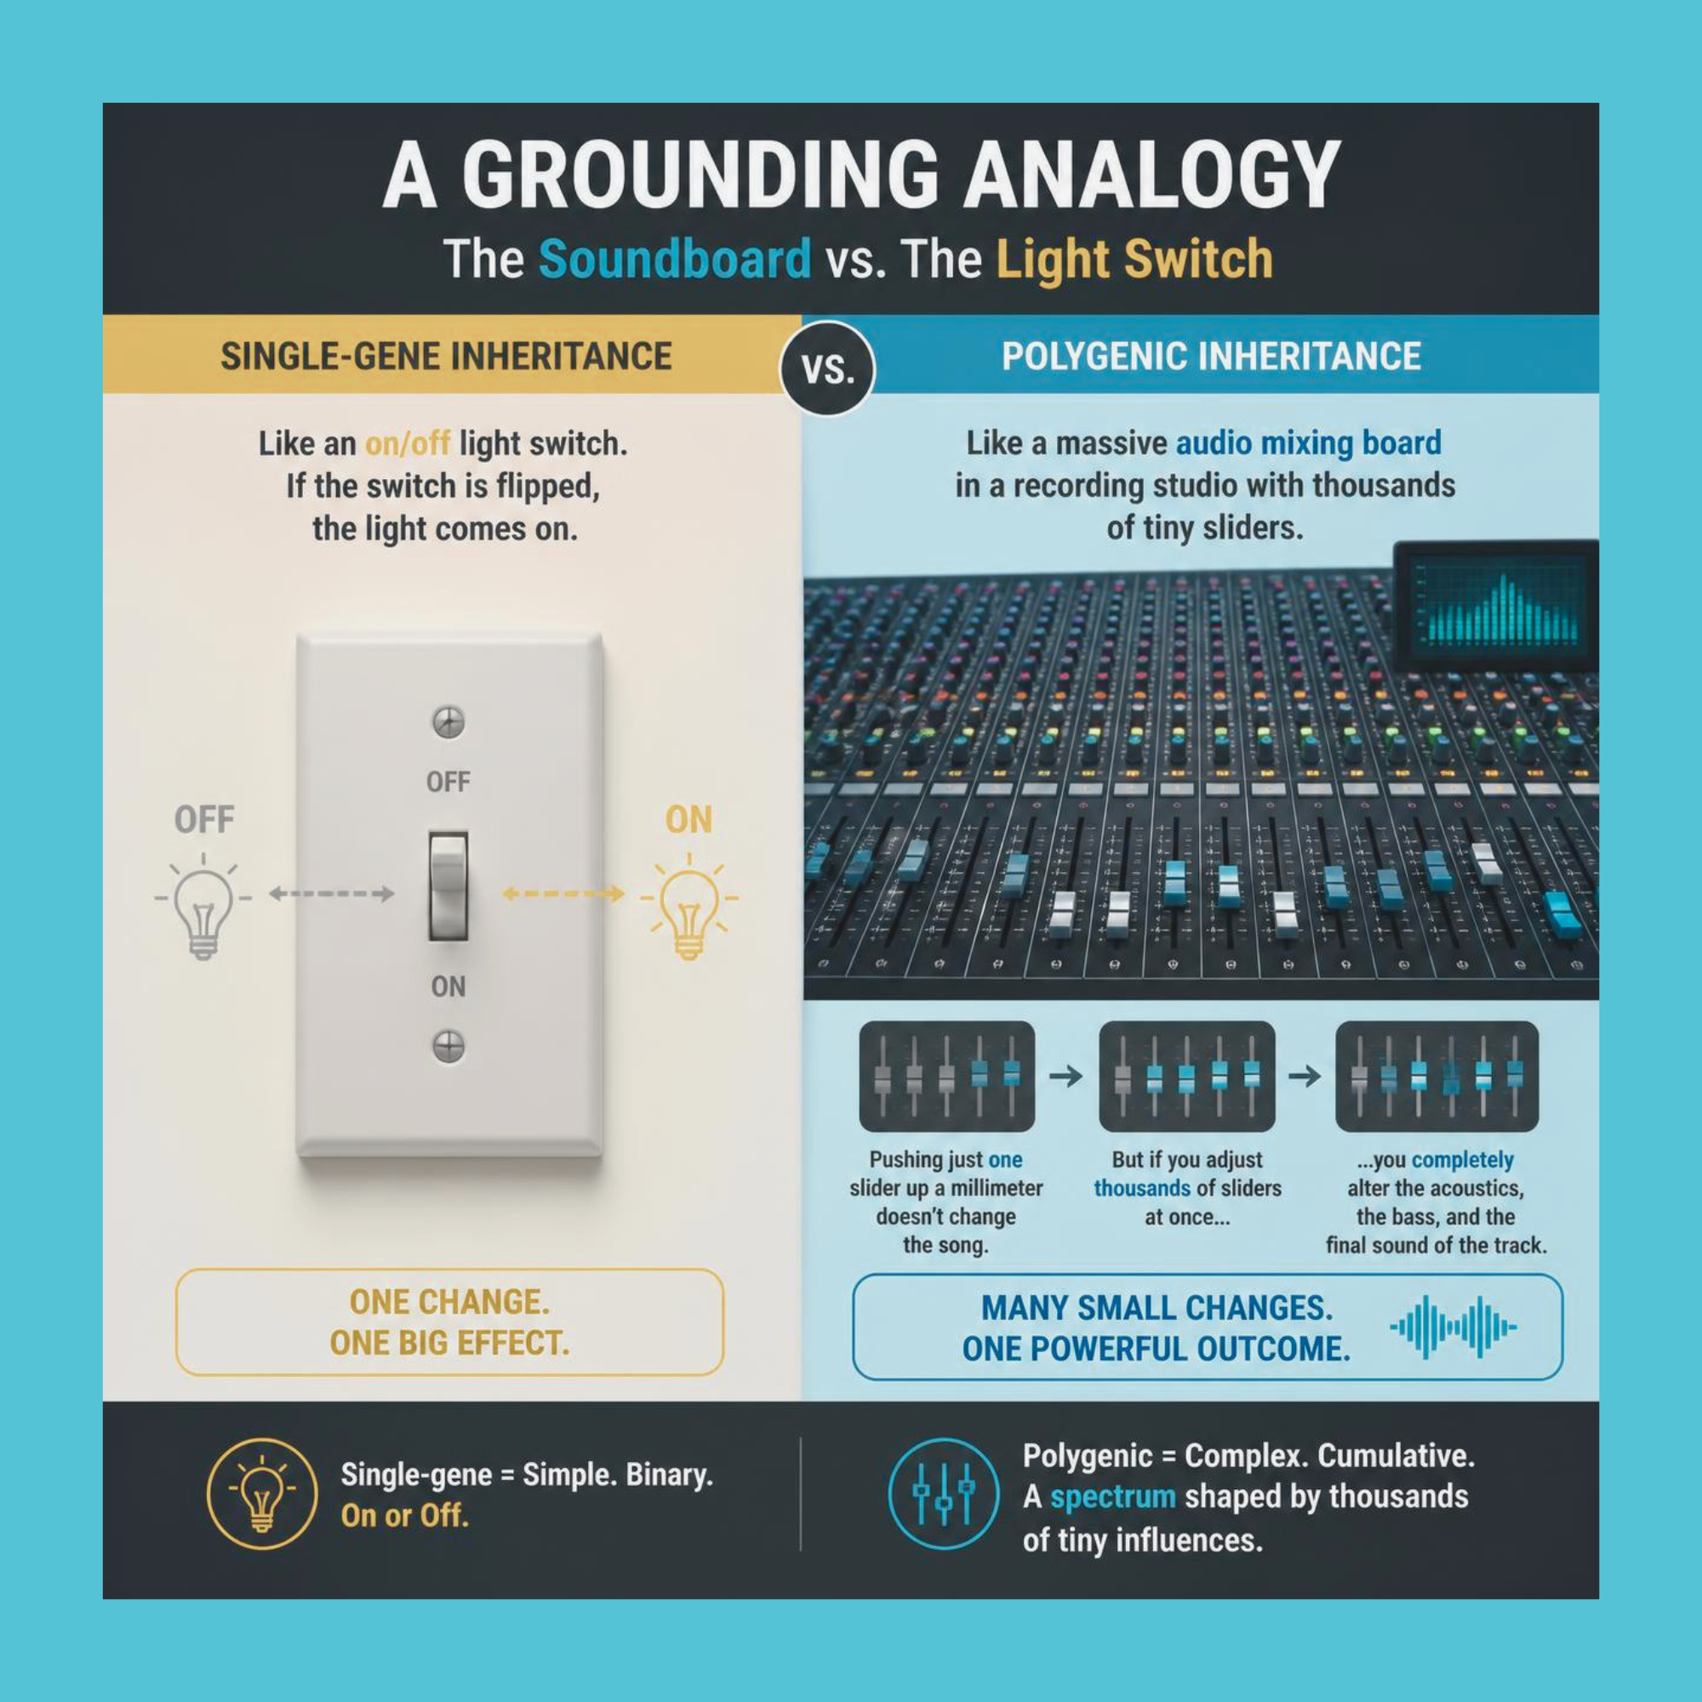
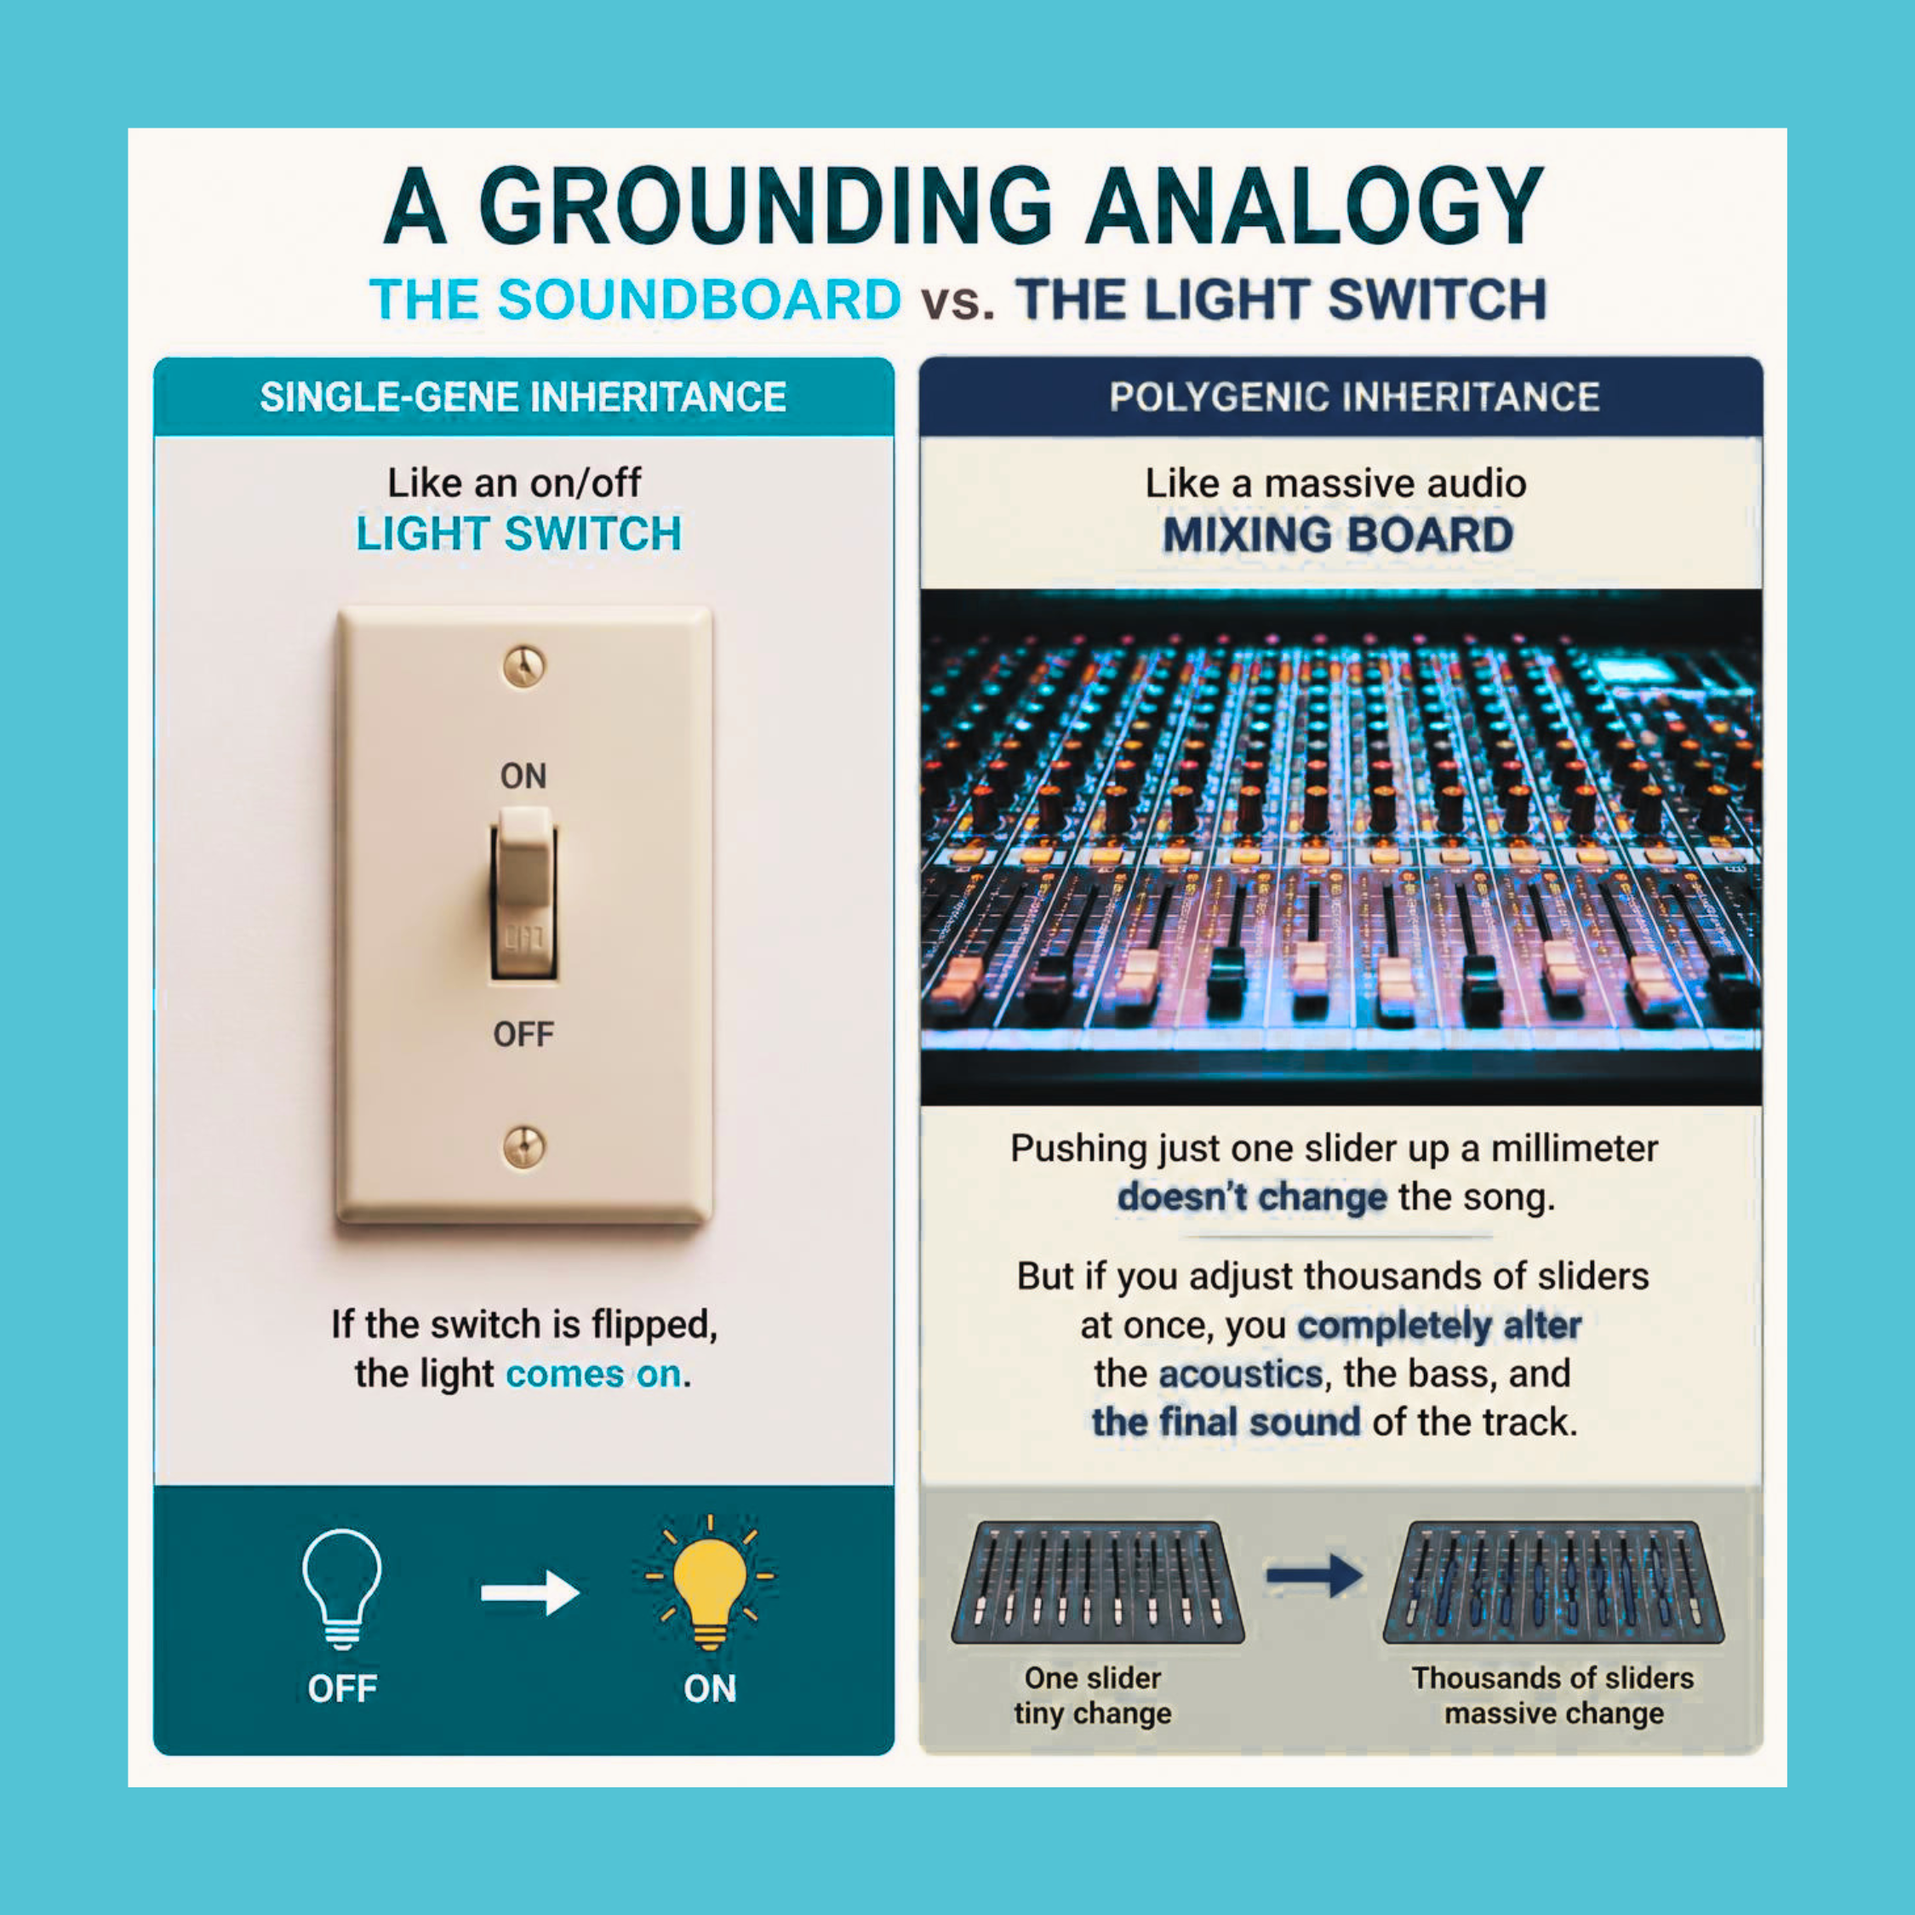
fixing mobile view of brain development

diff --git a/src/components/articles/autism/asd-causes/BrainDevelopment.tsx b/src/components/articles/autism/asd-causes/BrainDevelopment.tsx
@@ -59,7 +59,7 @@ export function BrainDevelopment({ setCurrentArticle }: BrainDevelopmentProps) {
 
       {/* --- CENTERED GRAPHIC SECTION: MOVING NEURON VIDEO --- */} 
       <div className="text-center w-full mb-12"> 
-        <div className="mx-auto w-64 mb-8 rounded-xl overflow-hidden"> 
+        <div className="mx-auto w-full max-w-[256px] mb-8 rounded-xl overflow-hidden"> 
           <video 
             autoPlay 
             loop 
@@ -84,7 +84,7 @@ export function BrainDevelopment({ setCurrentArticle }: BrainDevelopmentProps) {
          {/* --- CENTERED GRAPHIC SECTION: SYNAPSE VIDEO --- */} 
         {/* 2. Changed mb-0 to mb-6 to ADD some comfortable space AFTER the video */}
         <div className="text-center w-full mb-6"> 
-          <div className="mx-auto w-64 mb-0 rounded-xl overflow-hidden"> 
+          <div className="mx-auto w-full max-w-[256px] mb-0 rounded-xl overflow-hidden"> 
             <video 
               autoPlay 
               loop 
@@ -123,7 +123,7 @@ export function BrainDevelopment({ setCurrentArticle }: BrainDevelopmentProps) {
         {/* --- CENTERED GRAPHIC SECTION: fetus brain firings VIDEO --- */} 
         {/* 2. Changed mb-0 to mb-6 to ADD some comfortable space AFTER the video */}
         <div className="text-center w-full mb-6"> 
-          <div className="mx-auto w-64 mb-0 rounded-xl overflow-hidden"> 
+          <div className="mx-auto w-full max-w-[256px] mb-0 rounded-xl overflow-hidden"> 
             <video 
               autoPlay 
               loop 
@@ -161,17 +161,11 @@ export function BrainDevelopment({ setCurrentArticle }: BrainDevelopmentProps) {
           <h4 className="text-sm uppercase tracking-wider text-green-700 font-bold mb-3 border-b border-green-700 border-opacity-10 pb-1">
             Cited Studies & Statistics
           </h4>
-          <ol className="list-decimal ml-5 text-xs space-y-3 text-slate-600 leading-relaxed">
-            <li>
-              Courchesne, E., et al. (2011). "Brain growth across the life span in autism: age-specific changes in anatomical pathology." <i>Brain Research</i>, 1380, 138-145.
-            </li>
-            <li>
-              Belmonte, M. K., et al. (2004). "Autism and abnormal development of brain connectivity." <i>Journal of Neuroscience</i>, 24(42), 9228-9231.
-            </li>
-            <li>
-              Rubenstein, J. L., & Merzenich, M. M. (2003). "Model of autism: increased ratio of excitation/inhibition in key neural systems." <i>Genes, Brain and Behavior</i>, 2(5), 255-267.
-            </li>
-          </ol>
+          <div className="text-xs space-y-3 text-slate-600 leading-relaxed" style={{ textIndent: 0 }}>
+            <p>1. Courchesne, E., et al. (2011). "Brain growth across the life span in autism: age-specific changes in anatomical pathology." <i>Brain Research</i>, 1380, 138-145.</p>
+            <p>2. Belmonte, M. K., et al. (2004). "Autism and abnormal development of brain connectivity." <i>Journal of Neuroscience</i>, 24(42), 9228-9231.</p>
+            <p>3. Rubenstein, J. L., & Merzenich, M. M. (2003). "Model of autism: increased ratio of excitation/inhibition in key neural systems." <i>Genes, Brain and Behavior</i>, 2(5), 255-267.</p>
+          </div>
         </div>
         
         {/* BACKGROUND SOURCES: CYAN */}
@@ -179,19 +173,11 @@ export function BrainDevelopment({ setCurrentArticle }: BrainDevelopmentProps) {
           <h4 className="text-sm uppercase tracking-wider text-cyan-500 font-bold mb-3 border-b border-cyan-500 border-opacity-10 pb-1">
             Background Sources
           </h4>
-          <ul className="list-none text-xs space-y-3 text-slate-600 leading-relaxed p-0 m-0">
-            <li>
-              Hazlett, H. C., et al. (2017). "Early brain development in infants at high risk for autism spectrum disorder." <i>Nature</i>.
-            </li>
-            <li>
-              Robertson, C. E., & Baron-Cohen, S. (2017). "Sensory perception in autism." <i>Nature Reviews Neuroscience</i>.
-            </li>
-            <li>
-              Vargas, D. L., et al. (2005). "Neuroinflammation in Autism." <i>Annals of Neurology</i>.
-            </li>
-            <li>
-              Zoghbi, H. Y., & Bear, M. F. (2012). "Synaptic Dysfunction in Neurodevelopmental Disorders." <i>Cold Spring Harbor Perspectives in Biology</i>.
-            </li>
+          <ul className="list-none text-xs space-y-3 text-slate-600 leading-relaxed p-0 m-0" style={{ textIndent: 0 }}>
+            <li>Hazlett, H. C., et al. (2017). "Early brain development in infants at high risk for autism spectrum disorder." <i>Nature</i>.</li>
+            <li>Robertson, C. E., & Baron-Cohen, S. (2017). "Sensory perception in autism." <i>Nature Reviews Neuroscience</i>.</li>
+            <li>Vargas, D. L., et al. (2005). "Neuroinflammation in Autism." <i>Annals of Neurology</i>.</li>
+            <li>Zoghbi, H. Y., & Bear, M. F. (2012). "Synaptic Dysfunction in Neurodevelopmental Disorders." <i>Cold Spring Harbor Perspectives in Biology</i>.</li>
           </ul>
         </div>
       </div>
